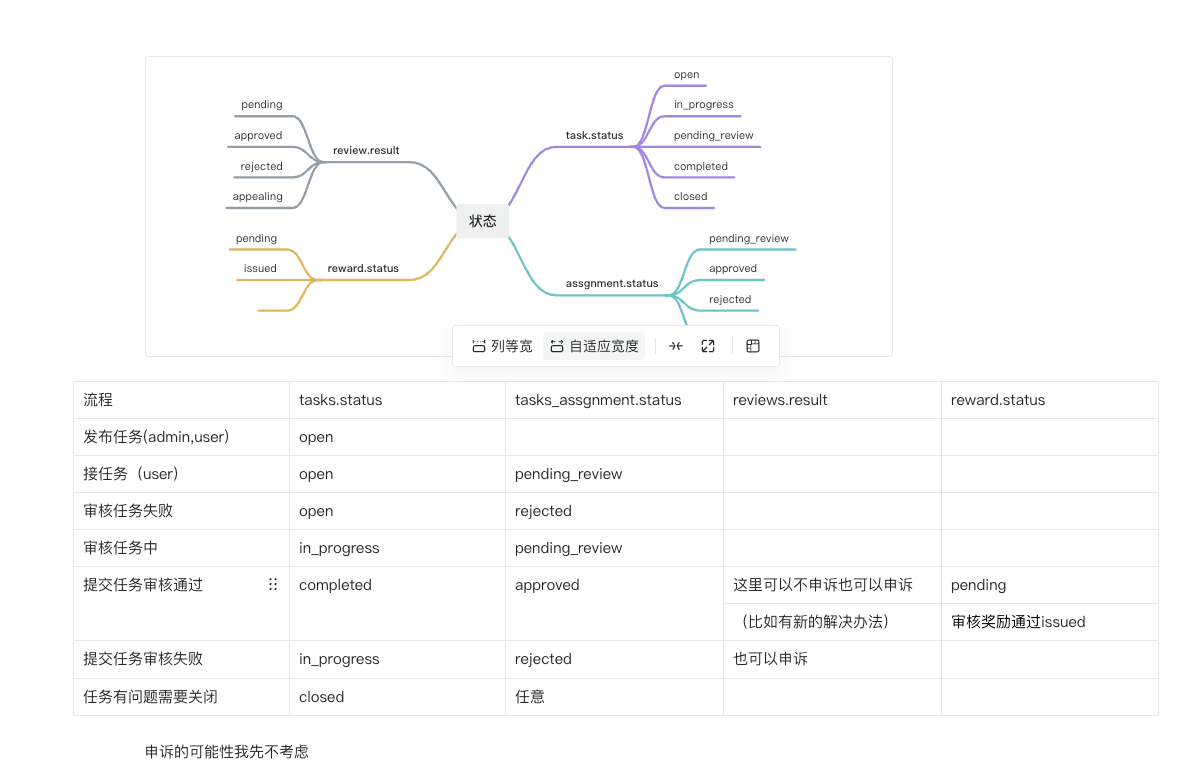
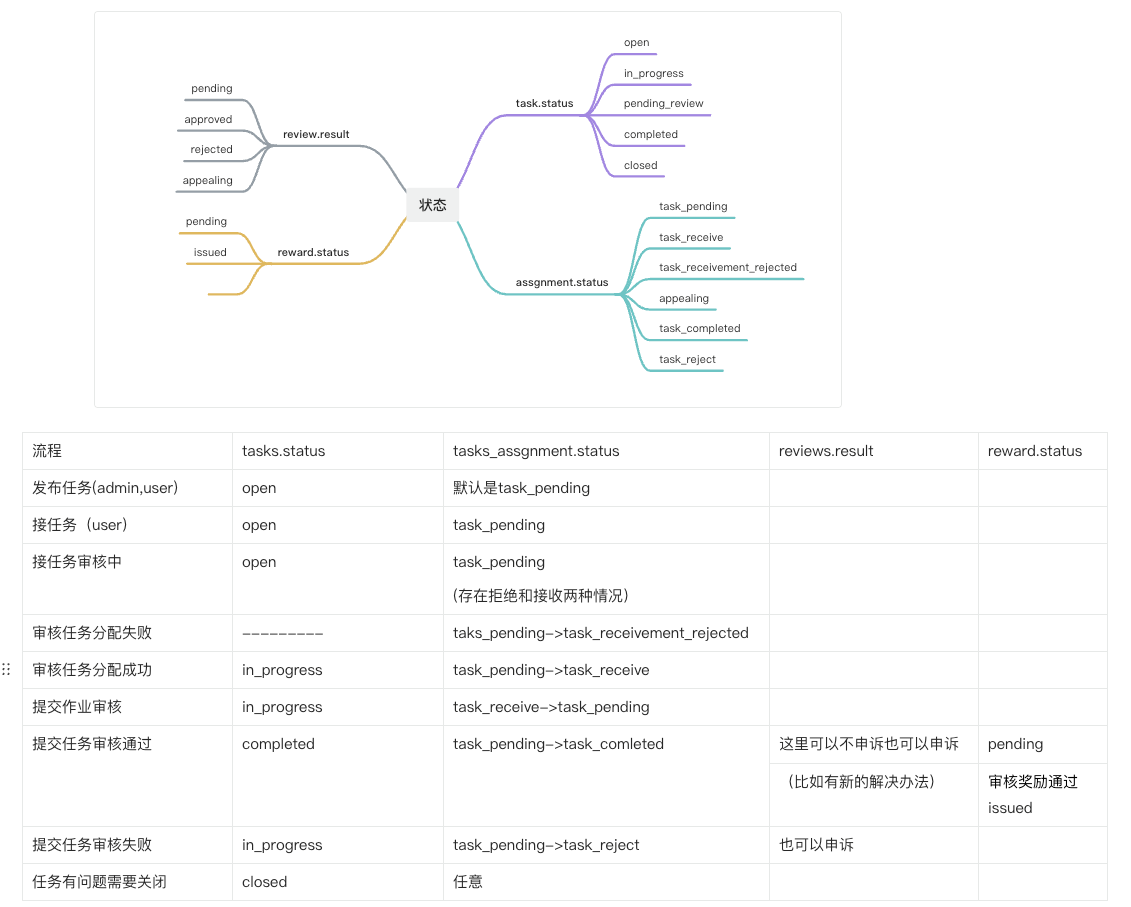
fix:修改assignment的状态类型

diff --git a/app/api/assignment.py b/app/api/assignment.py
@@ -4,6 +4,7 @@ All endpoints use OpenAPI English doc comments.
 """
 from fastapi import APIRouter, Depends, HTTPException, UploadFile, File, Form
 from sqlalchemy.orm import Session
+from sqlalchemy.exc import IntegrityError
 from app.schemas.assignment import AssignmentCreate, AssignmentRead, AssignmentUpdate
 from app.crud.assignment import create_assignment, get_assignment, get_assignments_by_user, update_assignment
 from app.core.database import get_db
@@ -22,10 +23,29 @@ def accept_task(assignment: AssignmentCreate, db: Session = Depends(get_db), cur
     """
     Accept a task and create an assignment.
     - Any authenticated user can accept a task.
+    - Cannot accept the same task twice.
+    - Cannot accept own published task.
+    - Only 'open' status tasks can be accepted.
     """
-    created = create_assignment(db, assignment, user_id=current_user.id)
-    if not created:
-        raise HTTPException(status_code=400, detail="任务已被接取或不可用")
+    try:
+        created = create_assignment(db, assignment, user_id=current_user.id)
+    except ValueError as e:
+        error_msg = str(e)
+        # Determine appropriate status code based on error message
+        if "not found" in error_msg:
+            raise HTTPException(status_code=404, detail=error_msg)
+        elif "already accepted" in error_msg or "cannot accept your own" in error_msg:
+            raise HTTPException(status_code=409, detail=error_msg)
+        elif "not available" in error_msg:
+            raise HTTPException(status_code=400, detail=error_msg)
+        else:
+            raise HTTPException(status_code=400, detail=error_msg)
+    except IntegrityError as e:
+        # Handle foreign key constraint failures
+        if "foreign key constraint" in str(e).lower():
+            raise HTTPException(status_code=404, detail=f"Task with id {assignment.task_id} not found")
+        raise HTTPException(status_code=409, detail="Database integrity error")
+    
     return success_response(data=AssignmentRead.from_orm(created), message="接取任务成功")
 
 @router.get("/{assignment_id}", response_model=ApiResponse[AssignmentRead])
@@ -60,8 +80,10 @@ def submit_assignment(
     """
     Submit assignment result (text or file).
     - Only assignment owner can submit.
+    - Status changes from 'task_receive' to 'task_pending' after submission.
     """
     from datetime import datetime
+    from app.models.assignment import AssignmentStatus
     
     assignment = get_assignment(db, assignment_id)
     if not assignment:
@@ -76,9 +98,11 @@ def submit_assignment(
             f.write(file.file.read())
         submit_content = file_path
     
+    # Update status to task_pending when submitting
     update = AssignmentUpdate(
         submit_content=submit_content,
-        submit_time=datetime.utcnow()
+        submit_time=datetime.utcnow(),
+        status=AssignmentStatus.task_pending  # 提交后状态变为待审核
     )
     updated = update_assignment(db, assignment_id, update)
     return success_response(data=AssignmentRead.from_orm(updated), message="提交成功")

diff --git a/app/crud/assignment.py b/app/crud/assignment.py
@@ -3,16 +3,53 @@ CRUD operations for TaskAssignment model.
 """
 from sqlalchemy.orm import Session
 from app.models.assignment import TaskAssignment, AssignmentStatus
+from app.models.task import Task
 from app.schemas.assignment import AssignmentCreate, AssignmentUpdate
 from datetime import datetime
 
 def create_assignment(db: Session, assignment: AssignmentCreate, user_id: int):
+    """Create a new assignment.
+    
+    Args:
+        db: Database session.
+        assignment: Assignment data to create.
+        user_id: User ID accepting the task.
+    
+    Returns:
+        Created TaskAssignment object.
+    
+    Raises:
+        ValueError: If task does not exist, task status invalid, or user already accepted.
+    """
+    # 1. Verify task exists
+    task = db.query(Task).filter(Task.id == assignment.task_id).first()
+    if not task:
+        raise ValueError(f"Task with id {assignment.task_id} not found")
+    
+    # 2. Check if task status allows acceptance (only 'open' tasks can be accepted)
+    from app.models.task import TaskStatus
+    if task.status != TaskStatus.open:
+        raise ValueError(f"Task is not available for acceptance (current status: {task.status.value})")
+    
+    # 3. Check if user already accepted this task
+    existing_assignment = db.query(TaskAssignment).filter(
+        TaskAssignment.task_id == assignment.task_id,
+        TaskAssignment.user_id == user_id
+    ).first()
+    
+    if existing_assignment:
+        raise ValueError(f"You have already accepted this task (Assignment ID: {existing_assignment.id})")
+    
+    # 4. Check if user is the task publisher (optional: prevent self-acceptance)
+    if task.publisher_id == user_id:
+        raise ValueError("You cannot accept your own published task")
+    
+    # 5. Create assignment (status: task_receive - just accepted, not submitted yet)
     db_assignment = TaskAssignment(
         task_id=assignment.task_id,
         user_id=user_id,
         submit_content=assignment.submit_content,
-        submit_time=datetime.utcnow(),
-        status=AssignmentStatus.pending_review
+        status=AssignmentStatus.task_pending  # 刚接取,正在进行中
     )
     db.add(db_assignment)
     db.commit()

diff --git a/app/crud/user_center.py b/app/crud/user_center.py
@@ -132,7 +132,7 @@ def get_user_published_tasks(db: Session, user_id: int, status: Optional[str] = 
         func.count(TaskAssignment.id).label('total_assignments'),
         func.sum(
             case(
-                (TaskAssignment.status == AssignmentStatus.pending_review, 1),
+                (TaskAssignment.status == AssignmentStatus.task_pending, 1),
                 else_=0
             )
         ).label('pending_reviews')
@@ -243,7 +243,7 @@ def get_user_statistics(db: Session, user_id: int) -> UserStatistics:
     total_tasks_completed = db.query(TaskAssignment).filter(
         and_(
             TaskAssignment.user_id == user_id,
-            TaskAssignment.status == AssignmentStatus.approved
+            TaskAssignment.status == AssignmentStatus.task_completed
         )
     ).count()
 
@@ -305,21 +305,21 @@ def get_user_task_stats(db: Session, user_id: int) -> UserTaskStats:
     completed_tasks = db.query(TaskAssignment).filter(
         and_(
             TaskAssignment.user_id == user_id,
-            TaskAssignment.status == AssignmentStatus.approved
+            TaskAssignment.status == AssignmentStatus.task_completed
         )
     ).count()
 
     pending_tasks = db.query(TaskAssignment).filter(
         and_(
             TaskAssignment.user_id == user_id,
-            TaskAssignment.status == AssignmentStatus.pending_review
+            TaskAssignment.status == AssignmentStatus.task_pending
         )
     ).count()
 
     rejected_tasks = db.query(TaskAssignment).filter(
         and_(
             TaskAssignment.user_id == user_id,
-            TaskAssignment.status == AssignmentStatus.rejected
+            TaskAssignment.status == AssignmentStatus.task_reject
         )
     ).count()
 
@@ -377,7 +377,7 @@ def get_user_task_stats(db: Session, user_id: int) -> UserTaskStats:
     monthly_completed = db.query(TaskAssignment).filter(
         and_(
             TaskAssignment.user_id == user_id,
-            TaskAssignment.status == AssignmentStatus.approved,
+            TaskAssignment.status == AssignmentStatus.task_completed,
             TaskAssignment.review_time >= current_month
         )
     ).count()

diff --git a/app/api/review.py b/app/api/review.py
@@ -21,7 +21,15 @@ def submit_review(review: ReviewCreate, db: Session = Depends(get_db), current_u
     """
     if current_user.role.value != "admin":
         raise HTTPException(status_code=403, detail="Only admin can submit reviews")
-    created = create_review(db, review, reviewer_id=current_user.id)
+
+    try:
+        created = create_review(db, review, reviewer_id=current_user.id)
+    except ValueError as e:
+        raise HTTPException(status_code=404, detail=str(e)) from e
+
+    if not created:
+        raise HTTPException(status_code=409, detail="已提交过相同的审核，无需重复提交")
+
     return success_response(data=ReviewRead.from_orm(created), message="审核提交成功")
 
 @router.get("/{review_id}", response_model=ApiResponse[ReviewRead])
@@ -74,8 +82,8 @@ def appeal_assignment(assignment_id: int, db: Session = Depends(get_db), current
         raise HTTPException(status_code=404, detail="Assignment not found")
     if assignment.user_id != current_user.id:
         raise HTTPException(status_code=403, detail="Only assignment owner can appeal")
-    # State flow: Only approved/rejected assignments can be appealed
-    if assignment.status not in [AssignmentStatus.approved, AssignmentStatus.rejected]:
+    # State flow: Only task_completed/task_reject assignments can be appealed
+    if assignment.status not in [AssignmentStatus.task_completed, AssignmentStatus.task_reject]:
         raise HTTPException(status_code=400, detail="Assignment not eligible for appeal")
     # Update assignment status to appealing
     update_assignment(db, assignment_id, AssignmentUpdate(status=AssignmentStatus.appealing))

diff --git a/app/crud/review.py b/app/crud/review.py
@@ -67,11 +67,11 @@ def create_review(db: Session, review: ReviewCreate, reviewer_id: int):
             if task:
                 task_title = task.title
         if review.review_result == "approved":
-            update_assignment(db, assignment.id, AssignmentUpdate(status=AssignmentStatus.approved, review_time=db_review.review_time))
+            update_assignment(db, assignment.id, AssignmentUpdate(status=AssignmentStatus.task_completed, review_time=db_review.review_time))
             content = NOTIFICATION_TEMPLATES["review_approved"].format(task_title=task_title or "")
             create_notification(db, NotificationCreate(user_id=assignment.user_id, content=content))
         elif review.review_result == "rejected":
-            update_assignment(db, assignment.id, AssignmentUpdate(status=AssignmentStatus.rejected, review_time=db_review.review_time))
+            update_assignment(db, assignment.id, AssignmentUpdate(status=AssignmentStatus.task_reject, review_time=db_review.review_time))
             reason = review.review_comment or ""
             content = NOTIFICATION_TEMPLATES["review_rejected"].format(task_title=task_title or "", reason=reason)
             create_notification(db, NotificationCreate(user_id=assignment.user_id, content=content))

diff --git a/app/models/assignment.py b/app/models/assignment.py
@@ -15,8 +15,7 @@ class AssignmentStatus(enum.Enum):
     task_receivement_rejected = "task_receivement_rejected"
     appealing = "appealing"
     task_completed = "task_completed"
-    task_reject="task_reject"
-    task_progress = "task_progress"
+    task_reject = "task_reject"
 
 class TaskAssignment(Base):
     __tablename__ = "task_assignments"
@@ -25,7 +24,7 @@ class TaskAssignment(Base):
     user_id = Column(Integer, ForeignKey("users.id"), nullable=False)
     submit_content = Column(Text)
     submit_time = Column(DateTime)
-    status = Column(Enum(AssignmentStatus), default=AssignmentStatus.pending_review)
+    status = Column(Enum(AssignmentStatus), default=AssignmentStatus.task_pending)
     review_time = Column(DateTime)
     created_at = Column(DateTime, default=lambda: datetime.now(timezone.utc))
     user = relationship("User")

diff --git a/app/crud/admin.py b/app/crud/admin.py
@@ -153,7 +153,7 @@ def get_site_statistics(db: Session) -> SiteStatistics:
         func.count(TaskAssignment.id).label('total_assignments'),
         func.sum(
             case(
-                [(TaskAssignment.status == AssignmentStatus.pending_review.value, 1)],
+                [(TaskAssignment.status == AssignmentStatus.task_pending.value, 1)],
                 else_=0
             )
         ).label('pending_reviews')

diff --git a/docs/database.md b/docs/database.md
@@ -29,7 +29,7 @@
 - user_id（外键，关联 users.id）
 - submit_content
 - submit_time
-- status（待审核/任务已接收/任务已拒绝/用户申诉/提交任务已通过/提交任务被拒绝/任务进行中）
+- status（task_pending:进行中/待审核 | task_receive:接取被接收 | task_receivement_rejected:接取被拒绝 | task_completed:任务已完成 | task_reject:提交被拒绝 | appealing:申诉中）
 - review_time
 
 ### 奖励结算表（rewards） 中间表
@@ -119,6 +119,55 @@ erDiagram
     USERS ||--o{ REVIEWS : reviews
     USERS ||--o{ NOTIFICATIONS : receives
 ```
+
+---
+
+## 3. 任务接取状态流转说明
+
+### task_assignments 表状态枚举值
+
+| 状态值 | 中文说明 | 业务含义 |
+|-------|---------|---------|
+| `task_pending` | 进行中/待审核 | 用户接取任务后的默认状态，包括正在做和已提交等待审核 |
+| `task_receive` | 接取被接收 | 管理员审核接取申请通过，允许用户开始做任务 |
+| `task_receivement_rejected` | 接取被拒绝 | 管理员拒绝用户接取任务的申请 |
+| `task_completed` | 任务已完成 | 用户提交作业后，管理员审核通过，任务真正完成 |
+| `task_reject` | 提交被拒绝 | 用户提交作业后，管理员认为质量不合格而拒绝 |
+| `appealing` | 申诉中 | 用户对审核结果不满意，提出申诉 |
+
+### 状态流转图
+
+```
+[用户接取任务]
+    ↓
+[task_pending] ← 默认初始状态
+    ↓ (管理员审核接取申请)
+    ├─ 接取通过 → [task_receive] ← 允许做任务
+    │                   ↓ (用户提交作业)
+    │              [等待审核]
+    │                   ↓ (管理员审核作业)
+    │                   ├─ 审核通过 → [task_completed] ← 真正完成
+    │                   │                    ↓
+    │                   │              (用户申诉) → [appealing]
+    │                   │
+    │                   └─ 审核拒绝 → [task_reject] ← 质量不合格
+    │                                      ↓
+    │                                (用户申诉) → [appealing]
+    │
+    └─ 接取拒绝 → [task_receivement_rejected] ← 不允许做任务
+```
+
+### 关键业务逻辑
+
+1. **接取任务**: 用户接取任务时，状态初始化为 `task_pending`
+2. **审核接取**: 
+   - 通过 → `task_receive` (用户可以开始做任务)
+   - 拒绝 → `task_receivement_rejected` (不允许做任务)
+3. **提交作业**: 用户在 `task_receive` 状态下提交作业，等待管理员审核
+4. **审核作业**:
+   - 通过 → `task_completed` (任务完成，发放奖励)
+   - 拒绝 → `task_reject` (作业不合格)
+5. **申诉**: 只有 `task_completed` 或 `task_reject` 状态可以申诉，状态变为 `appealing`
 
 ---
 
